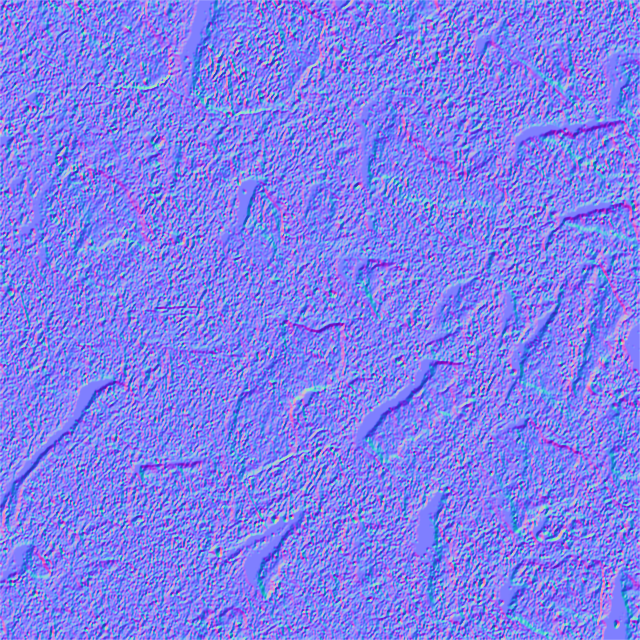
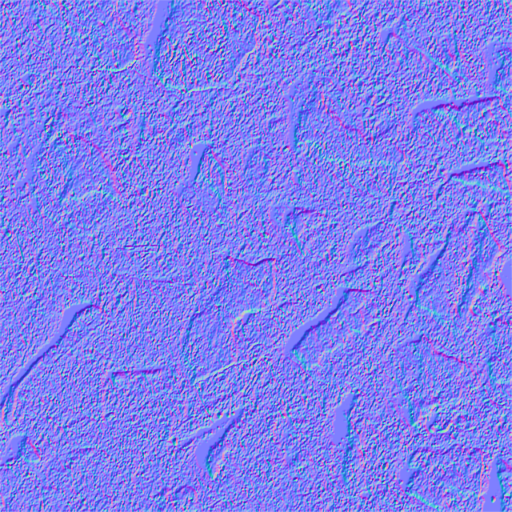
Normal map lighting seems to work, phaser sample added for mouse input reference

diff --git a/phaser.js/shaders.js b/phaser.js/shaders.js
@@ -1,9 +1,11 @@
-var game = new Phaser.Game(512, 512, Phaser.AUTO, 'phaser-example', { preload: preload, create: create });
+var game = new Phaser.Game(512, 512, Phaser.AUTO, 'phaser-example', { preload: preload, create: create, update: update });
 
 function preload() {
 
-    game.load.image('castle', '../assets/castle.png');
-    game.load.image('castle_normal', '../assets/castle_normal.png');
+//    game.load.image('background', '../assets/castle.png');
+//    game.load.image('background_normal', '../assets/castle_normal.png');
+    game.load.image('background', '../assets/ground.png');
+    game.load.image('background_normal', '../assets/ground_normal.png');
 
 }
 
@@ -27,10 +29,11 @@ function create() {
             "vec2 swapped = vec2(vTextureCoord.x, -vTextureCoord.y);",
             "vec4 texColor = texture2D(uSampler, vTextureCoord);",
             "vec4 nColor = texture2D(uNormal, swapped);",
-            "vec3 vLightPos = normalize(vec3(80.0, 40.0, 20.0));",          
+            "vec2 p = gl_FragCoord.xy / resolution  - mouse;",
+            "vec3 vLightPos = vec3(mouse.x, mouse.y, 0.08); //normalize(vec3(80.0, 40.0, 20.0));",          
             "vec3 LightDir = vec3(vLightPos.xy - (gl_FragCoord.xy / resolution.xy), vLightPos.z);",
-            "vec4 LightColor = vec4(1.0, 0.7, 0.8, 1.0);",
-            "vec4 AmbientColor = vec4(0.5, 0.5, 0.5, 0.5);",    //ambient RGBA -- alpha is intensity ",
+            "vec4 LightColor = vec4(1.0, 0.8, 0.0, 1.0);",
+            "vec4 AmbientColor = vec4(0.7, 0.7, 0.9, 0.4);",    //ambient RGBA -- alpha is intensity ",
             "vec3 Falloff = vec3(1.0, 1.0, 1.0);",
         
             "LightDir.x *= resolution.x / resolution.y;",
@@ -48,19 +51,18 @@ function create() {
             "vec3 Intensity = Ambient + Diffuse * Attenuation;",
             "vec3 FinalColor = texColor.rgb * Intensity;",
             
-//            "if(mouse.y == 0.0)",
+//            "if(mouse.x > 0.5)",
 //            "{",
 //                "FinalColor.g = 0.0;",
 //            "}",
-//            "gl_FragColor = texColor;",
             "gl_FragColor = vec4(FinalColor, texColor.a);",
         
         "}"
     ];
     
 
-    normal = game.add.sprite(0, 0, 'castle_normal'); 
-    sprite = game.add.sprite(0, 0, 'castle');
+    normal = game.add.sprite(0, 0, 'background_normal'); 
+    sprite = game.add.sprite(0, 0, 'background');
    
         
     var customUniforms = {
@@ -68,8 +70,15 @@ function create() {
     };
     
     filter = new Phaser.Filter(game, customUniforms, fragmentSrc);
-
+    filter.setResolution(512, 512);
+    
     sprite.filters = [ filter ];
 //    normal.visible = false;
+
+}
+
+function update() {
+
+    filter.update(game.input.activePointer);
 
 }

diff --git a/phaser.js/starfield.js b/phaser.js/starfield.js
@@ -1,0 +1,74 @@
+var game = new Phaser.Game(800, 600, Phaser.AUTO, 'phaser-example', { create: create, update: update });
+
+var filter;
+var sprite;
+
+function create() {
+
+    //  From http://glslsandbox.com/e#5891
+
+    // Reverses the starfield to flow away towards the pointer
+    // const float Tau     = 6.2832;
+    // const float speed   = .02;
+
+    var fragmentSrc = [
+        "precision mediump float;",
+        "uniform float     time;",
+        "uniform vec2      resolution;",
+        "uniform vec2      mouse;",
+
+        "const float Tau        = 6.2832;",
+        "const float speed  = .02;",
+        "const float density    = .04;",
+        "const float shape  = .04;",
+
+        "float random( vec2 seed ) {",
+            "return fract(sin(seed.x+seed.y*1e3)*1e5);",
+        "}",
+
+        "float Cell(vec2 coord) {",
+            "vec2 cell = fract(coord) * vec2(.5,2.) - vec2(.0,.5);",
+            "return (1.-length(cell*2.-1.))*step(random(floor(coord)),density)*2.;",
+        "}",
+
+        "void main( void ) {",
+
+            "vec2 p = gl_FragCoord.xy / resolution  - mouse;",
+
+            "float a = fract(atan(p.x, p.y) / Tau);",
+            "float d = length(p);",
+
+            "vec2 coord = vec2(pow(d, shape), a)*256.;",
+            "vec2 delta = vec2(-time*speed*256., .5);",
+            "//vec2 delta = vec2(-time*speed*256., cos(length(p)*10.)*2e0+time*5e-1); // wavy wavy",
+
+            "float c = 0.;",
+            "for(int i=0; i<3; i++) {",
+                "coord += delta;",
+                "c = max(c, Cell(coord));",
+            "}",
+
+            "gl_FragColor = vec4(c*d);",
+        "if(mouse.y > 0.5)",
+            "{",
+                "gl_FragColor.g = 0.0;",
+            "}",
+        "}"
+    ];
+
+    filter = new Phaser.Filter(game, null, fragmentSrc);
+    filter.setResolution(800, 600);
+
+    sprite = game.add.sprite();
+    sprite.width = 800;
+    sprite.height = 600;
+
+    sprite.filters = [ filter ];
+
+}
+
+function update() {
+
+    filter.update(game.input.activePointer);
+
+}

diff --git a/phaser.js/hmm.html b/phaser.js/hmm.html
@@ -2,6 +2,7 @@
 <head>
 <script type="text/javascript" src="phaser.min.js"></script>
 <script type="text/javascript" src="shaders.js"></script>
+<!--<script type="text/javascript" src="starfield.js"></script>-->
 </head>
 <body>
 </body>
